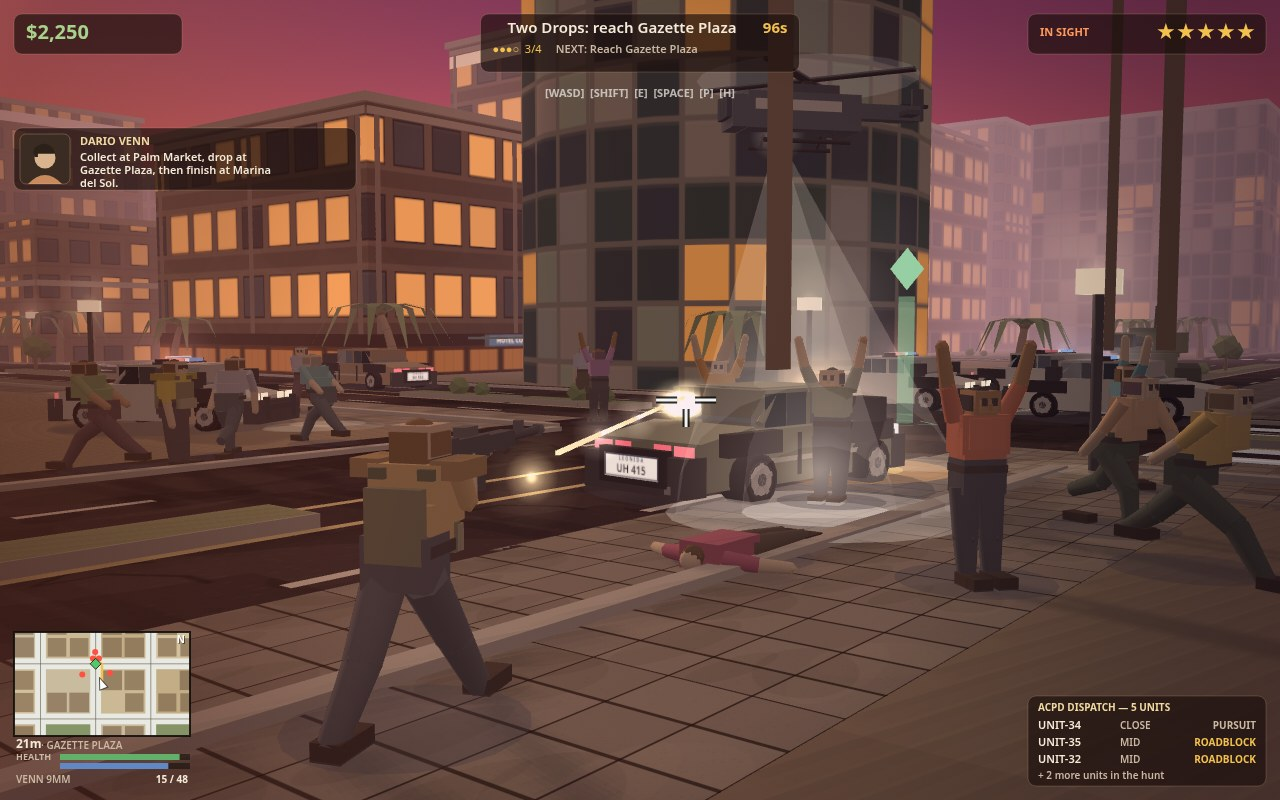
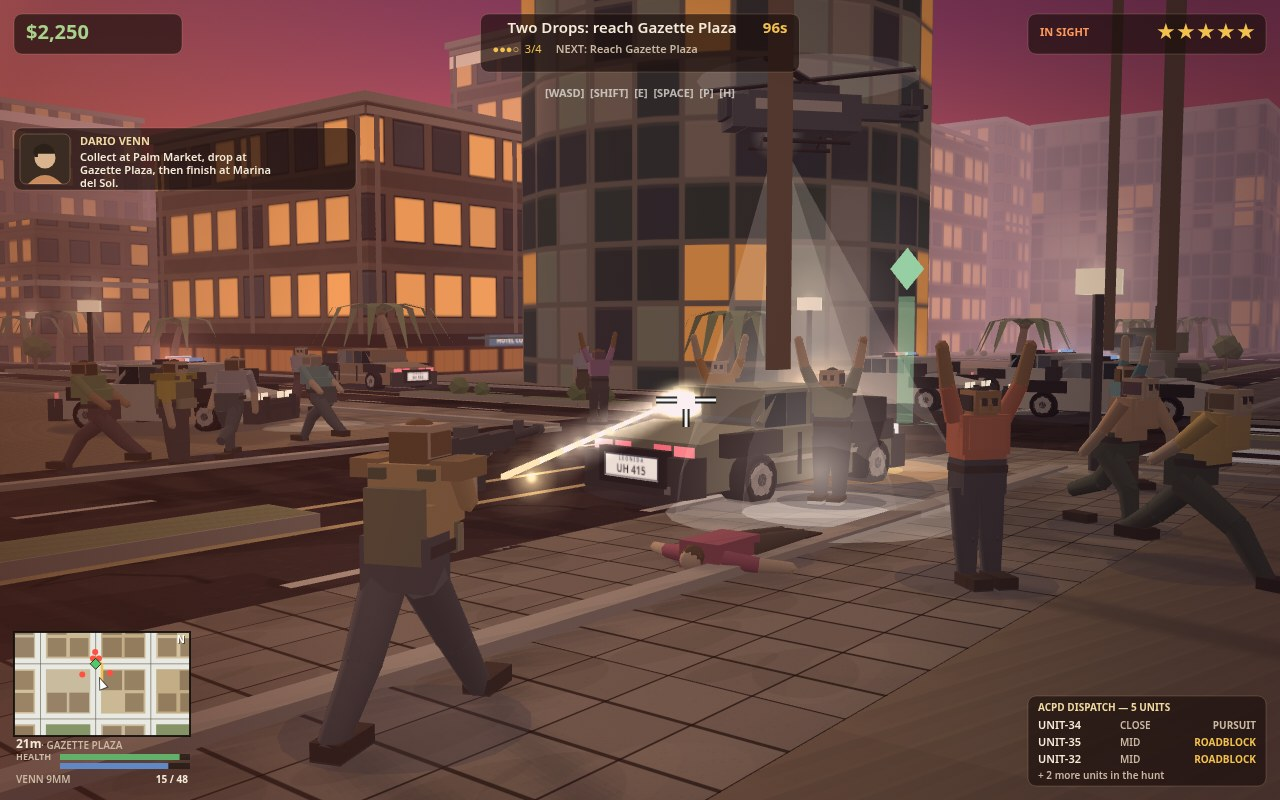
gta6-01 TOP-3 REBUILD FIX ROUND (shots.js only; hud.js, view3d.js and ALL sim modules byte-identical): panel-named defects D-title + D8-perception. FIX 1 TITLE FRAME (both seats' #1 new defect, HIGH): the Phase 4 vista looked east down the Gazette avenue from the crossing at (1456,986) — BEFORE (nat

Changed region(s): [[0.375, 0.4688, 0.5312, 0.5938]]

diff --git a/game/src/shots.js b/game/src/shots.js
@@ -175,16 +175,31 @@ export function applyShot(game, name, step) {
     // renderer has exactly one elevated camera — the planning orbit
     // (235 units out, 105 up, looking at planTarget) — so the staging
     // raises game.titleVista and main.js renders the title's world
-    // pass through that framing: the camera hangs 105 up WEST of the
-    // crossing at (1456, 986) and looks EAST down the avenue's road
-    // corridor, so lit streets run through the frame and the skyline
-    // closes it. The hero coupe + player figure stand on the avenue
-    // ~160 units from the camera (a ground point 95 out projected at
-    // the frame's bottom edge; at ~160 it sits fully inside the lower
-    // foreground), facing east into the city. The first staging —
-    // a diagonal orbit over the Gazette intersection — put a single
-    // building corner across the whole frame; the corridor framing
-    // is the fix. The drawTitle overlay owns the centre.
+    // pass through that framing. The drawTitle overlay owns the centre.
+    // FIX ROUND (rebuild panel, both seats' #1 defect): the Phase 4
+    // framing looked EAST down the Gazette avenue from the crossing
+    // at (1456, 986) — the hero coupe's rear spoiler struck through
+    // "Press ENTER to start" and the controls row sat on the
+    // intersection's bright zebra stripes. The vista is restaged
+    // MID-BLOCK on the St Sable avenue (x 1456), camera at
+    // (1456, 2274), 105 up, looking SOUTH at (1456, 2509): no
+    // intersection stands at the target, so no zebra arm projects
+    // into the text zone (the 2396 crossing's arms fall in the
+    // foreground below the save line, the 2866 arms above the
+    // logotype), the text zone's ground is the avenue's dark asphalt,
+    // and the hero coupe + player figure stand in the near
+    // foreground 135 / 128 units out — their silhouettes top out
+    // BELOW the save line. Far traffic rides the avenue at 600+
+    // units, projecting above the logotype as horizon silhouettes;
+    // nothing staged crosses any text line (native-res crop-verified
+    // line by line). Fix 1b (prove the coast) was attempted FIRST and
+    // is STILL OPEN, honestly: Ocean Drive's east-plot buildings
+    // stand across the drive itself at most block rows — a north
+    // framing from (3714, 2455) captured a single facade wall, hero
+    // and figure inside its footprint — and the one long clear
+    // stretch (y 2337–3119) is bracketed by that same building class
+    // at its north end and a median tree at (3714, 2690) whose canopy
+    // crosses the tagline at every viable camera depth on the stretch.
     game.screen = 'title';
     run(150);
     game.screen = 'title';
@@ -192,23 +207,26 @@ export function applyShot(game, name, step) {
     // moonlight, lit windows and streetlight pools behind the logo.
     game.timeGrade = 'night';
     game.titleVista = true;
-    game.planTarget = { x: 1456, y: 986 };
-    game.planOrbitAngle = Math.PI; // camera at (1221, 986), 105 up, looking east
+    game.planTarget = { x: 1456, y: 2509 };
+    game.planOrbitAngle = -Math.PI / 2; // camera at (1456, 2274), 105 up, looking south
     game.player.inCar = false; game.player.car = null;
-    game.player.x = 1382; game.player.y = 966; game.player.angle = 0.3;
+    game.player.x = 1472; game.player.y = 2402; game.player.angle = Math.PI / 2;
     game.player.walkPhase = 1.1; game.player.vx = 0; game.player.vy = 0; game.player.hp = 100;
-    setCar(game.traffic[0], 1395, 1000, 0, 0, { kind: 'coupe', color: '#b8523f' });
+    setCar(game.traffic[0], 1432, 2409, Math.PI / 2, 0, { kind: 'coupe', color: '#b8523f' });
     game.traffic[0].occupiedByPlayer = false;
-    // Lit streets below: traffic on the avenue and the crossing road.
-    setCar(game.traffic[1], 1700, 1009, 0, 45, { kind: 'sedan', color: '#5f7a6a' });
-    setCar(game.traffic[2], 1850, 963, Math.PI, 45, { kind: 'hatch', color: '#a8835a' });
-    setCar(game.traffic[3], 1477, 760, -Math.PI / 2, 40, { kind: 'sedan', color: '#7a8a99' });
-    setCar(game.traffic[4], 1435, 1230, Math.PI / 2, 40, { kind: 'coupe', color: '#8a4a5a' });
-    for (let i = 5; i < game.traffic.length; i++) setCar(game.traffic[i], 3300 + i * 10, 3300, 0, 0);
-    stagePed(game, 0, 1430, 925, 0.4, 1.2, 0);
-    stagePed(game, 1, 1490, 1048, -0.6, 3.0, 1);
-    stagePed(game, 2, 1330, 1040, 2.6, 5.0, 2);
-    stagePed(game, 3, 1560, 930, -2.2, 2.2, 3);
+    // Lit streets below: far traffic on the avenue itself, small at
+    // the horizon, all 600+ units from the camera.
+    setCar(game.traffic[1], 1476, 2874, Math.PI / 2, 40, { kind: 'sedan', color: '#5f7a6a' });
+    setCar(game.traffic[2], 1436, 2954, Math.PI / 2, 40, { kind: 'hatch', color: '#a8835a' });
+    setCar(game.traffic[3], 1476, 3034, Math.PI / 2, 40, { kind: 'sedan', color: '#7a8a99' });
+    for (let i = 4; i < game.traffic.length; i++) setCar(game.traffic[i], 3300 + i * 10, 3300, 0, 0);
+    // Foreground sidewalk life below the text zone (west + east
+    // sidewalks, 125–130 units out) and two horizon figures on the
+    // far sidewalks, above the logotype.
+    stagePed(game, 0, 1404, 2404, 0.4, 1.2, 0);
+    stagePed(game, 1, 1508, 2399, -0.6, 3.0, 1);
+    stagePed(game, 2, 1404, 2800, 2.6, 5.0, 2);
+    stagePed(game, 3, 1508, 2800, -2.2, 2.2, 3);
     game.police.cops = [];
     game.police.setStars(0, game.nowMs);
     game.bullets = []; game.fx.particles = []; game.fx.skids = []; game.toasts = [];
@@ -650,9 +668,24 @@ export function applyShot(game, name, step) {
     const muzX = game.player.x + Math.cos(a) * 16.7 - Math.sin(a) * 0.28;
     const muzY = game.player.y + Math.sin(a) * 16.7 + Math.cos(a) * 0.28;
     const segA = Math.atan2(bulletEnd.y - muzY, bulletEnd.x - muzX);
-    game.bullets = [0.27, 0.51, 0.75, 1].map((t) => ({
-      x: muzX + (bulletEnd.x - muzX) * t, y: muzY + (bulletEnd.y - muzY) * t, angle: segA, life: 0.5,
-    }));
+    // FIX ROUND (rebuild panel, D8 perception): the Phase 4 burst was
+    // FOUR rounds at t = 0.27 / 0.51 / 0.75 / 1.0 — at full frame the
+    // ~15-unit spacing read as segmented streaks, and the muzzle-side
+    // glow stood alone below the line, misread by both panel seats as
+    // a stray shot at road level. The burst is now TWELVE rounds at
+    // even t = k/12 steps along the SAME muzzle→bulletEnd segment
+    // (same angle, same end point on the cross, no world point moved):
+    // each tracer's bar is ~16 units long against a ~5.4-unit step,
+    // so the bars and their small uniform glows overlap into ONE
+    // continuous streak from muzzle to impact, and no single mid-path
+    // glow stands apart — the impact stack stays the brightest point
+    // on the line (native-crop verified).
+    game.bullets = [1, 2, 3, 4, 5, 6, 7, 8, 9, 10, 11, 12].map((k) => {
+      const t = k / 12;
+      return {
+        x: muzX + (bulletEnd.x - muzX) * t, y: muzY + (bulletEnd.y - muzY) * t, angle: segA, life: 0.5,
+      };
+    });
     // Hit feedback: muzzle flash at the gun, impact sparks + flash on the
     // struck sedan, damage smoke climbing off it, and the tank's muzzle
     // smoke at its barrel tip (turret traversed to 3.6).
